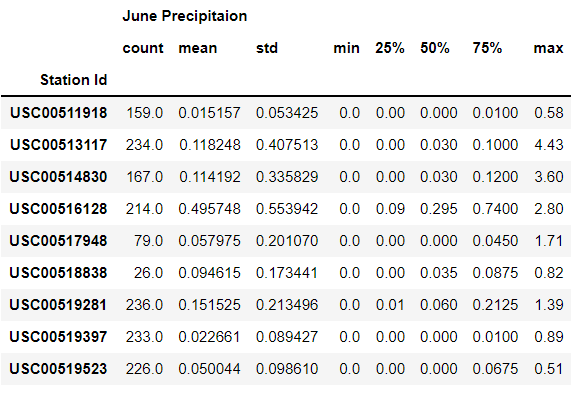
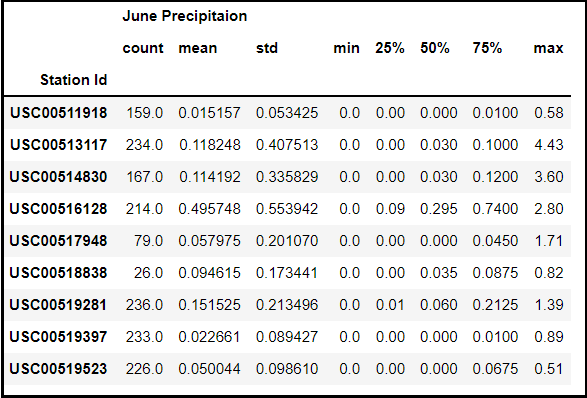
Pushing the final files

Changed region(s): [[0.0, 0.0, 1.0, 1.0]]

diff --git a/README.md b/README.md
@@ -18,7 +18,7 @@ Weather Analysis of data stored in SQLite database, using SQLAlchemy query tool.
 ### <a name="Background"></a>Background
 We are planning to open a **'Surf n Shake'** shop in **Oahu, Hawaii**, serving surf boards and icecreams to locals and tourists. In order to invest in this project we need some real investor backing to get this off the ground. We need to analyze weather conditions of this island from 9 weather stations so that the weather is in our favor for most of the months. If the weather conditions are met then our plan is to expand to other Hawaiin islands.  
 
-<p align="center"> <img src = "Images/surf.png" width ="80%"> </p>
+<p align="center"> <img src = "Images/surf.png" width ="30%"> </p>
 
 ### <a name="Purpose"></a>Purpose
 
@@ -35,7 +35,7 @@ The temperature analysis is based on the weather data collected from nine differ
 
 Below is the snapshot of the Summary Statistics for the months June and December.
 
-<p align="center"> <img src = "Images/june_stats.png" width ="40%"> </p> <p align="center"> <img src = "Images/dec_stats.png" width ="40%"> </p>
+<p align="center"> <img src = "Images/June_stats.png" width ="20%">  <img src = "Images/dec_stats.png" width ="20%" height ="0%"> </p>
 
 
 We can conclude the following:
@@ -51,7 +51,7 @@ In this analysis we are analyzing the temperature summary statistics for all the
 
 Below is the snapshot of the Summary Statistics for each station for months June and December.
 
-<p align="left"> <img src = "Images/June_temp_station.png" width ="30%"> </p> <p align="left"> <img src = "Images/dec_temp_station.png" width ="30%"> </p>
+<p align="center"> <img src = "Images/June_temp_station.png" width = "45%">  <img src = "Images/dec_temp_station.png" width ="45%"> </p>
 
 We can conclude the following:
 
@@ -66,7 +66,7 @@ The precipitaion analysis is based on the weather data collected from nine diffe
 
 Below is the snapshot of the Summary Statistics for the months June and December.
 
-<p align="center"> <img src = "Images/june_rain.png" width ="40%"> </p> <p align="center"> <img src = "Images/dec_rain.png" width ="40%"> </p>
+<p align="center"> <img src = "Images/june_rain.png" width ="20%"> <img src = "Images/dec_rain.png" width ="20%"> </p>
 
 We can conclude the following:
 1. The number of data points available for analysis for the month of **December (1405)** are less as compared to that for the month of **June (1574)**.
@@ -82,7 +82,7 @@ In this analysis we are analyzing the precipitatiom summary statistics for all t
 
 Below is the snapshot of the Summary Statistics for the months June and December for all stations.
 
-<p align="left"> <img src = "Images/June_rain_station.png" width ="30%"> </p> <p align="left"> <img src = "Images/dec_rain_station.png" width ="30%"> </p>
+<p align="center"> <img src = "Images/June_rain_station.png" width ="45%">  <img src = "Images/dec_rain_station.png" width ="45%"> </p>
 
 We can conclude the following:
 
